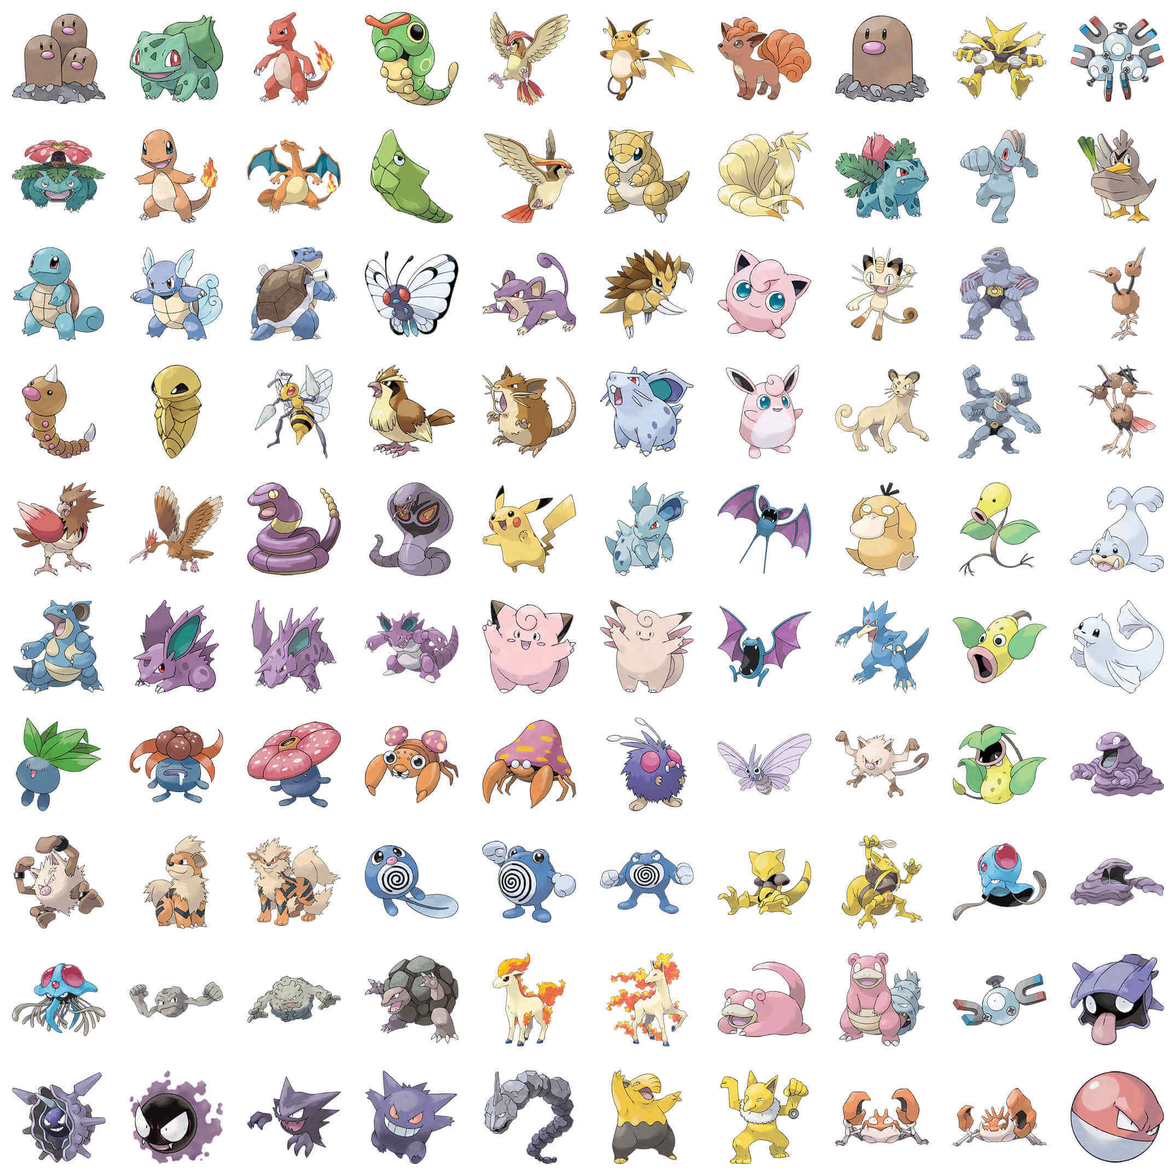
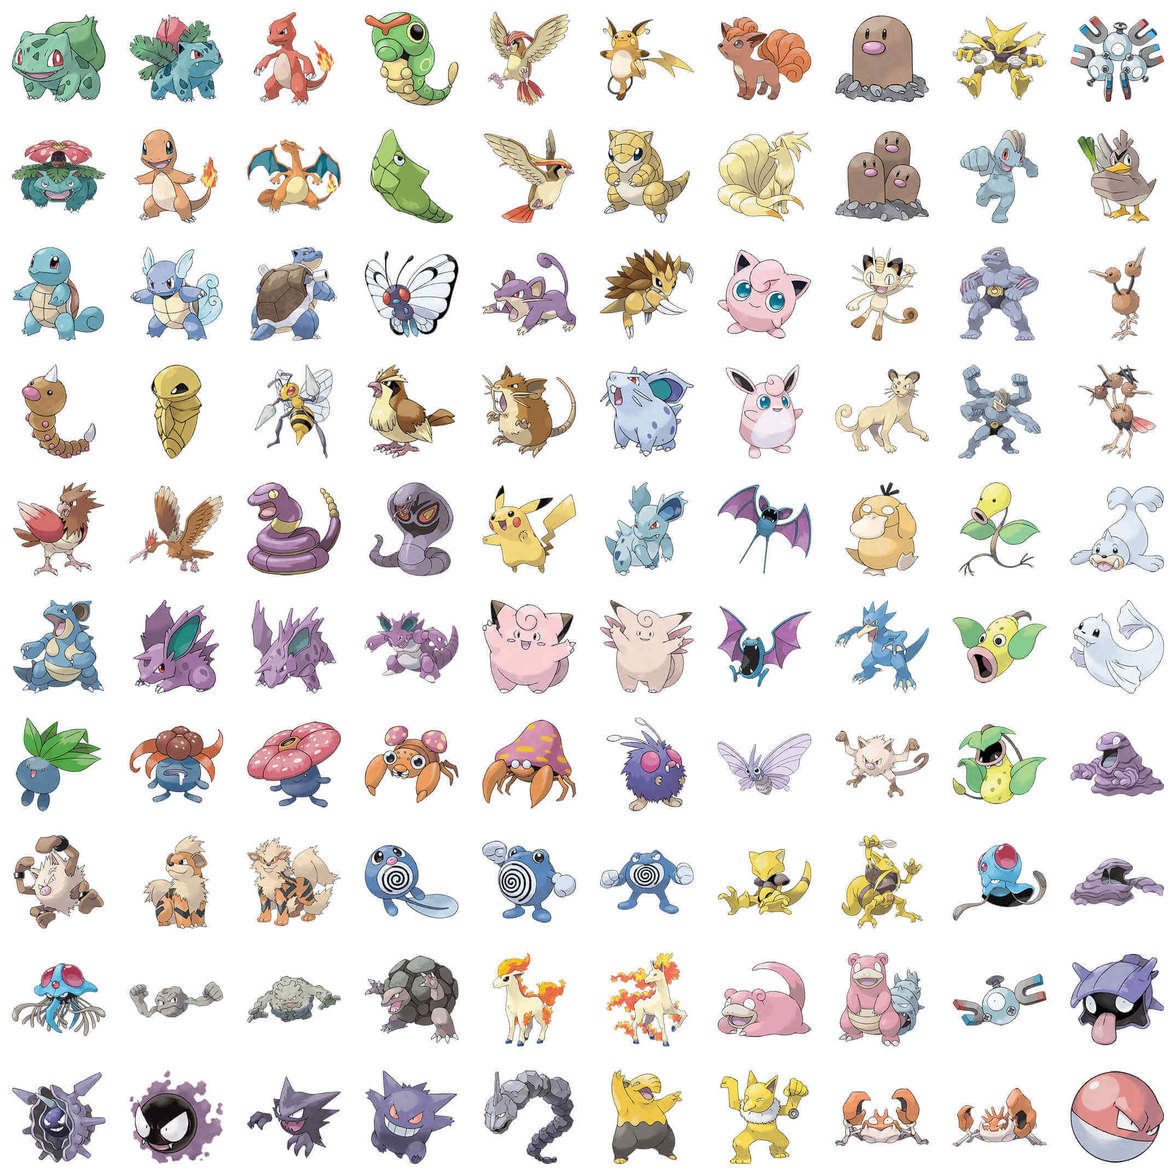
Add new Pokemon images

Changed region(s): [[0.0, 0.0, 0.187, 0.0935], [0.7167, 0.0935, 0.8102, 0.187]]

diff --git a/pokemon.min.css b/pokemon.min.css
@@ -1,1 +1,1 @@
-.i100,[class*=i0]{background-image:url(data/pokemon-0.jpg);background-size:1000px 1000px}.i001,.i101,.i201,.i301,.i401,.i501,.i601,.i701,.i802{background-position:-100px 0}.i002,.i102,.i202,.i302,.i402,.i502,.i602,.i702{background-position:-700px -100px}.i003,.i103,.i203,.i303,.i403,.i503,.i603,.i703,.i803{background-position:0 -100px}.i004,.i104,.i204,.i304,.i404,.i504,.i604,.i704,.i804{background-position:-100px -100px}.i005,.i105,.i205,.i305,.i405,.i505,.i605,.i705,.i805{background-position:-200px 0}.i006,.i106,.i206,.i306,.i406,.i506,.i606,.i706,.i806{background-position:-200px -100px}.i007,.i107,.i207,.i307,.i407,.i507,.i607,.i707{background-position:0 -200px}.i008,.i108,.i208,.i308,.i408,.i508,.i608,.i708{background-position:-100px -200px}.i009,.i109,.i209,.i309,.i409,.i509,.i609,.i709{background-position:-200px -200px}.i010,.i110,.i210,.i310,.i410,.i510,.i610,.i710{background-position:-300px 0}.i011,.i111,.i211,.i311,.i411,.i511,.i611,.i711{background-position:-300px -100px}.i012,.i112,.i212,.i312,.i412,.i512,.i612,.i712{background-position:-300px -200px}.i013,.i113,.i213,.i313,.i413,.i513,.i613,.i713{background-position:0 -300px}.i014,.i114,.i214,.i314,.i414,.i514,.i614,.i714{background-position:-100px -300px}.i015,.i115,.i215,.i315,.i415,.i515,.i615,.i715{background-position:-200px -300px}.i016,.i116,.i216,.i316,.i416,.i516,.i616,.i716{background-position:-300px -300px}.i017,.i117,.i217,.i317,.i417,.i517,.i617,.i717{background-position:-400px 0}.i018,.i118,.i218,.i318,.i418,.i518,.i618,.i718{background-position:-400px -100px}.i019,.i119,.i219,.i319,.i419,.i519,.i619,.i719{background-position:-400px -200px}.i020,.i120,.i220,.i320,.i420,.i520,.i620,.i720{background-position:-400px -300px}.i021,.i121,.i221,.i321,.i421,.i521,.i621,.i721{background-position:0 -400px}.i022,.i122,.i222,.i322,.i422,.i522,.i622,.i722{background-position:-100px -400px}.i023,.i123,.i223,.i323,.i423,.i523,.i623,.i723{background-position:-200px -400px}.i024,.i124,.i224,.i324,.i424,.i524,.i624,.i724{background-position:-300px -400px}.i025,.i125,.i225,.i325,.i425,.i525,.i625,.i725{background-position:-400px -400px}.i026,.i126,.i226,.i326,.i426,.i526,.i626,.i726{background-position:-500px 0}.i027,.i127,.i227,.i327,.i427,.i527,.i627,.i727{background-position:-500px -100px}.i028,.i128,.i228,.i328,.i428,.i528,.i628,.i728{background-position:-500px -200px}.i029,.i129,.i229,.i329,.i429,.i529,.i629,.i729{background-position:-500px -300px}.i030,.i130,.i230,.i330,.i430,.i530,.i630,.i730{background-position:-500px -400px}.i031,.i131,.i231,.i331,.i431,.i531,.i631,.i731{background-position:0 -500px}.i032,.i132,.i232,.i332,.i432,.i532,.i632,.i732{background-position:-100px -500px}.i033,.i133,.i233,.i333,.i433,.i533,.i633,.i733{background-position:-200px -500px}.i034,.i134,.i234,.i334,.i434,.i534,.i634,.i734{background-position:-300px -500px}.i035,.i135,.i235,.i335,.i435,.i535,.i635,.i735{background-position:-400px -500px}.i036,.i136,.i236,.i336,.i436,.i536,.i636,.i736{background-position:-500px -500px}.i037,.i137,.i237,.i337,.i437,.i537,.i637,.i737{background-position:-600px 0}.i038,.i138,.i238,.i338,.i438,.i538,.i638,.i738{background-position:-600px -100px}.i039,.i139,.i239,.i339,.i439,.i539,.i639,.i739{background-position:-600px -200px}.i040,.i140,.i240,.i340,.i440,.i540,.i640,.i740{background-position:-600px -300px}.i041,.i141,.i241,.i341,.i441,.i541,.i641,.i741{background-position:-600px -400px}.i042,.i142,.i242,.i342,.i442,.i542,.i642,.i742{background-position:-600px -500px}.i043,.i143,.i243,.i343,.i443,.i543,.i643,.i743{background-position:0 -600px}.i044,.i144,.i244,.i344,.i444,.i544,.i644,.i744{background-position:-100px -600px}.i045,.i145,.i245,.i345,.i445,.i545,.i645,.i745{background-position:-200px -600px}.i046,.i146,.i246,.i346,.i446,.i546,.i646,.i746{background-position:-300px -600px}.i047,.i147,.i247,.i347,.i447,.i547,.i647,.i747{background-position:-400px -600px}.i048,.i148,.i248,.i348,.i448,.i548,.i648,.i748{background-position:-500px -600px}.i049,.i149,.i249,.i349,.i449,.i549,.i649,.i749{background-position:-600px -600px}.i050,.i150,.i250,.i350,.i450,.i550,.i650,.i750{background-position:-700px 0}.i051,.i151,.i251,.i351,.i451,.i551,.i651,.i751,.i801{background-position:0 0}.i052,.i152,.i252,.i352,.i452,.i552,.i652,.i752{background-position:-700px -200px}.i053,.i153,.i253,.i353,.i453,.i553,.i653,.i753{background-position:-700px -300px}.i054,.i154,.i254,.i354,.i454,.i554,.i654,.i754{background-position:-700px -400px}.i055,.i155,.i255,.i355,.i455,.i555,.i655,.i755{background-position:-700px -500px}.i056,.i156,.i256,.i356,.i456,.i556,.i656,.i756{background-position:-700px -600px}.i057,.i157,.i257,.i357,.i457,.i557,.i657,.i757{background-position:0 -700px}.i058,.i158,.i258,.i358,.i458,.i558,.i658,.i758{background-position:-100px -700px}.i059,.i159,.i259,.i359,.i459,.i559,.i659,.i759{background-position:-200px -700px}.i060,.i160,.i260,.i360,.i460,.i560,.i660,.i760{background-position:-300px -700px}.i061,.i161,.i261,.i361,.i461,.i561,.i661,.i761{background-position:-400px -700px}.i062,.i162,.i262,.i362,.i462,.i562,.i662,.i762{background-position:-500px -700px}.i063,.i163,.i263,.i363,.i463,.i563,.i663,.i763{background-position:-600px -700px}.i064,.i164,.i264,.i364,.i464,.i564,.i664,.i764{background-position:-700px -700px}.i065,.i165,.i265,.i365,.i465,.i565,.i665,.i765{background-position:-800px 0}.i066,.i166,.i266,.i366,.i466,.i566,.i666,.i766{background-position:-800px -100px}.i067,.i167,.i267,.i367,.i467,.i567,.i667,.i767{background-position:-800px -200px}.i068,.i168,.i268,.i368,.i468,.i568,.i668,.i768{background-position:-800px -300px}.i069,.i169,.i269,.i369,.i469,.i569,.i669,.i769{background-position:-800px -400px}.i070,.i170,.i270,.i370,.i470,.i570,.i670,.i770{background-position:-800px -500px}.i071,.i171,.i271,.i371,.i471,.i571,.i671,.i771{background-position:-800px -600px}.i072,.i172,.i272,.i372,.i472,.i572,.i672,.i772{background-position:-800px -700px}.i073,.i173,.i273,.i373,.i473,.i573,.i673,.i773{background-position:0 -800px}.i074,.i174,.i274,.i374,.i474,.i574,.i674,.i774{background-position:-100px -800px}.i075,.i175,.i275,.i375,.i475,.i575,.i675,.i775{background-position:-200px -800px}.i076,.i176,.i276,.i376,.i476,.i576,.i676,.i776{background-position:-300px -800px}.i077,.i177,.i277,.i377,.i477,.i577,.i677,.i777{background-position:-400px -800px}.i078,.i178,.i278,.i378,.i478,.i578,.i678,.i778{background-position:-500px -800px}.i079,.i179,.i279,.i379,.i479,.i579,.i679,.i779{background-position:-600px -800px}.i080,.i180,.i280,.i380,.i480,.i580,.i680,.i780{background-position:-700px -800px}.i081,.i181,.i281,.i381,.i481,.i581,.i681,.i781{background-position:-800px -800px}.i082,.i182,.i282,.i382,.i482,.i582,.i682,.i782{background-position:-900px 0}.i083,.i183,.i283,.i383,.i483,.i583,.i683,.i783{background-position:-900px -100px}.i084,.i184,.i284,.i384,.i484,.i584,.i684,.i784{background-position:-900px -200px}.i085,.i185,.i285,.i385,.i485,.i585,.i685,.i785{background-position:-900px -300px}.i086,.i186,.i286,.i386,.i486,.i586,.i686,.i786{background-position:-900px -400px}.i087,.i187,.i287,.i387,.i487,.i587,.i687,.i787{background-position:-900px -500px}.i088,.i188,.i288,.i388,.i488,.i588,.i688,.i788{background-position:-900px -600px}.i089,.i189,.i289,.i389,.i489,.i589,.i689,.i789{background-position:-900px -700px}.i090,.i190,.i290,.i390,.i490,.i590,.i690,.i790{background-position:-900px -800px}.i091,.i191,.i291,.i391,.i491,.i591,.i691,.i791{background-position:0 -900px}.i092,.i192,.i292,.i392,.i492,.i592,.i692,.i792{background-position:-100px -900px}.i093,.i193,.i293,.i393,.i493,.i593,.i693,.i793{background-position:-200px -900px}.i094,.i194,.i294,.i394,.i494,.i594,.i694,.i794{background-position:-300px -900px}.i095,.i195,.i295,.i395,.i495,.i595,.i695,.i795{background-position:-400px -900px}.i096,.i196,.i296,.i396,.i496,.i596,.i696,.i796{background-position:-500px -900px}.i097,.i197,.i297,.i397,.i497,.i597,.i697,.i797{background-position:-600px -900px}.i098,.i198,.i298,.i398,.i498,.i598,.i698,.i798{background-position:-700px -900px}.i099,.i199,.i299,.i399,.i499,.i599,.i699,.i799{background-position:-800px -900px}.i100,.i200,.i300,.i400,.i500,.i600,.i700,.i800{background-position:-900px -900px}.i200,[class*=i1]:not(.i100){background-image:url(data/pokemon-1.jpg);background-size:1000px 1000px}.i300,[class*=i2]:not(.i200){background-image:url(data/pokemon-2.jpg);background-size:1000px 1000px}.i400,[class*=i3]:not(.i300){background-image:url(data/pokemon-3.jpg);background-size:1000px 1000px}.i500,[class*=i4]:not(.i400){background-image:url(data/pokemon-4.jpg);background-size:1000px 1000px}.i600,[class*=i5]:not(.i500){background-image:url(data/pokemon-5.jpg);background-size:1000px 1000px}.i700,[class*=i6]:not(.i600){background-image:url(data/pokemon-6.jpg);background-size:1000px 1000px}.i800,[class*=i7]:not(.i700){background-image:url(data/pokemon-7.jpg);background-size:1000px 1000px}.i900,[class*=i8]:not(.i800){background-image:url(data/pokemon-8.jpg);background-size:300px 200px}
+.i100,[class*=i0]{background-image:url(data/pokemon-0.jpg);background-size:1000px 1000px}.i001,.i101,.i201,.i301,.i401,.i501,.i601,.i701,.i801{background-position:0 0}.i002,.i102,.i202,.i302,.i402,.i502,.i602,.i702,.i802{background-position:-100px 0}.i003,.i103,.i203,.i303,.i403,.i503,.i603,.i703,.i803{background-position:0 -100px}.i004,.i104,.i204,.i304,.i404,.i504,.i604,.i704,.i804{background-position:-100px -100px}.i005,.i105,.i205,.i305,.i405,.i505,.i605,.i705,.i805{background-position:-200px 0}.i006,.i106,.i206,.i306,.i406,.i506,.i606,.i706,.i806{background-position:-200px -100px}.i007,.i107,.i207,.i307,.i407,.i507,.i607,.i707,.i807{background-position:0 -200px}.i008,.i108,.i208,.i308,.i408,.i508,.i608,.i708,.i808{background-position:-100px -200px}.i009,.i109,.i209,.i309,.i409,.i509,.i609,.i709,.i809{background-position:-200px -200px}.i010,.i110,.i210,.i310,.i410,.i510,.i610,.i710{background-position:-300px 0}.i011,.i111,.i211,.i311,.i411,.i511,.i611,.i711{background-position:-300px -100px}.i012,.i112,.i212,.i312,.i412,.i512,.i612,.i712{background-position:-300px -200px}.i013,.i113,.i213,.i313,.i413,.i513,.i613,.i713{background-position:0 -300px}.i014,.i114,.i214,.i314,.i414,.i514,.i614,.i714{background-position:-100px -300px}.i015,.i115,.i215,.i315,.i415,.i515,.i615,.i715{background-position:-200px -300px}.i016,.i116,.i216,.i316,.i416,.i516,.i616,.i716{background-position:-300px -300px}.i017,.i117,.i217,.i317,.i417,.i517,.i617,.i717{background-position:-400px 0}.i018,.i118,.i218,.i318,.i418,.i518,.i618,.i718{background-position:-400px -100px}.i019,.i119,.i219,.i319,.i419,.i519,.i619,.i719{background-position:-400px -200px}.i020,.i120,.i220,.i320,.i420,.i520,.i620,.i720{background-position:-400px -300px}.i021,.i121,.i221,.i321,.i421,.i521,.i621,.i721{background-position:0 -400px}.i022,.i122,.i222,.i322,.i422,.i522,.i622,.i722{background-position:-100px -400px}.i023,.i123,.i223,.i323,.i423,.i523,.i623,.i723{background-position:-200px -400px}.i024,.i124,.i224,.i324,.i424,.i524,.i624,.i724{background-position:-300px -400px}.i025,.i125,.i225,.i325,.i425,.i525,.i625,.i725{background-position:-400px -400px}.i026,.i126,.i226,.i326,.i426,.i526,.i626,.i726{background-position:-500px 0}.i027,.i127,.i227,.i327,.i427,.i527,.i627,.i727{background-position:-500px -100px}.i028,.i128,.i228,.i328,.i428,.i528,.i628,.i728{background-position:-500px -200px}.i029,.i129,.i229,.i329,.i429,.i529,.i629,.i729{background-position:-500px -300px}.i030,.i130,.i230,.i330,.i430,.i530,.i630,.i730{background-position:-500px -400px}.i031,.i131,.i231,.i331,.i431,.i531,.i631,.i731{background-position:0 -500px}.i032,.i132,.i232,.i332,.i432,.i532,.i632,.i732{background-position:-100px -500px}.i033,.i133,.i233,.i333,.i433,.i533,.i633,.i733{background-position:-200px -500px}.i034,.i134,.i234,.i334,.i434,.i534,.i634,.i734{background-position:-300px -500px}.i035,.i135,.i235,.i335,.i435,.i535,.i635,.i735{background-position:-400px -500px}.i036,.i136,.i236,.i336,.i436,.i536,.i636,.i736{background-position:-500px -500px}.i037,.i137,.i237,.i337,.i437,.i537,.i637,.i737{background-position:-600px 0}.i038,.i138,.i238,.i338,.i438,.i538,.i638,.i738{background-position:-600px -100px}.i039,.i139,.i239,.i339,.i439,.i539,.i639,.i739{background-position:-600px -200px}.i040,.i140,.i240,.i340,.i440,.i540,.i640,.i740{background-position:-600px -300px}.i041,.i141,.i241,.i341,.i441,.i541,.i641,.i741{background-position:-600px -400px}.i042,.i142,.i242,.i342,.i442,.i542,.i642,.i742{background-position:-600px -500px}.i043,.i143,.i243,.i343,.i443,.i543,.i643,.i743{background-position:0 -600px}.i044,.i144,.i244,.i344,.i444,.i544,.i644,.i744{background-position:-100px -600px}.i045,.i145,.i245,.i345,.i445,.i545,.i645,.i745{background-position:-200px -600px}.i046,.i146,.i246,.i346,.i446,.i546,.i646,.i746{background-position:-300px -600px}.i047,.i147,.i247,.i347,.i447,.i547,.i647,.i747{background-position:-400px -600px}.i048,.i148,.i248,.i348,.i448,.i548,.i648,.i748{background-position:-500px -600px}.i049,.i149,.i249,.i349,.i449,.i549,.i649,.i749{background-position:-600px -600px}.i050,.i150,.i250,.i350,.i450,.i550,.i650,.i750{background-position:-700px 0}.i051,.i151,.i251,.i351,.i451,.i551,.i651,.i751{background-position:-700px -100px}.i052,.i152,.i252,.i352,.i452,.i552,.i652,.i752{background-position:-700px -200px}.i053,.i153,.i253,.i353,.i453,.i553,.i653,.i753{background-position:-700px -300px}.i054,.i154,.i254,.i354,.i454,.i554,.i654,.i754{background-position:-700px -400px}.i055,.i155,.i255,.i355,.i455,.i555,.i655,.i755{background-position:-700px -500px}.i056,.i156,.i256,.i356,.i456,.i556,.i656,.i756{background-position:-700px -600px}.i057,.i157,.i257,.i357,.i457,.i557,.i657,.i757{background-position:0 -700px}.i058,.i158,.i258,.i358,.i458,.i558,.i658,.i758{background-position:-100px -700px}.i059,.i159,.i259,.i359,.i459,.i559,.i659,.i759{background-position:-200px -700px}.i060,.i160,.i260,.i360,.i460,.i560,.i660,.i760{background-position:-300px -700px}.i061,.i161,.i261,.i361,.i461,.i561,.i661,.i761{background-position:-400px -700px}.i062,.i162,.i262,.i362,.i462,.i562,.i662,.i762{background-position:-500px -700px}.i063,.i163,.i263,.i363,.i463,.i563,.i663,.i763{background-position:-600px -700px}.i064,.i164,.i264,.i364,.i464,.i564,.i664,.i764{background-position:-700px -700px}.i065,.i165,.i265,.i365,.i465,.i565,.i665,.i765{background-position:-800px 0}.i066,.i166,.i266,.i366,.i466,.i566,.i666,.i766{background-position:-800px -100px}.i067,.i167,.i267,.i367,.i467,.i567,.i667,.i767{background-position:-800px -200px}.i068,.i168,.i268,.i368,.i468,.i568,.i668,.i768{background-position:-800px -300px}.i069,.i169,.i269,.i369,.i469,.i569,.i669,.i769{background-position:-800px -400px}.i070,.i170,.i270,.i370,.i470,.i570,.i670,.i770{background-position:-800px -500px}.i071,.i171,.i271,.i371,.i471,.i571,.i671,.i771{background-position:-800px -600px}.i072,.i172,.i272,.i372,.i472,.i572,.i672,.i772{background-position:-800px -700px}.i073,.i173,.i273,.i373,.i473,.i573,.i673,.i773{background-position:0 -800px}.i074,.i174,.i274,.i374,.i474,.i574,.i674,.i774{background-position:-100px -800px}.i075,.i175,.i275,.i375,.i475,.i575,.i675,.i775{background-position:-200px -800px}.i076,.i176,.i276,.i376,.i476,.i576,.i676,.i776{background-position:-300px -800px}.i077,.i177,.i277,.i377,.i477,.i577,.i677,.i777{background-position:-400px -800px}.i078,.i178,.i278,.i378,.i478,.i578,.i678,.i778{background-position:-500px -800px}.i079,.i179,.i279,.i379,.i479,.i579,.i679,.i779{background-position:-600px -800px}.i080,.i180,.i280,.i380,.i480,.i580,.i680,.i780{background-position:-700px -800px}.i081,.i181,.i281,.i381,.i481,.i581,.i681,.i781{background-position:-800px -800px}.i082,.i182,.i282,.i382,.i482,.i582,.i682,.i782{background-position:-900px 0}.i083,.i183,.i283,.i383,.i483,.i583,.i683,.i783{background-position:-900px -100px}.i084,.i184,.i284,.i384,.i484,.i584,.i684,.i784{background-position:-900px -200px}.i085,.i185,.i285,.i385,.i485,.i585,.i685,.i785{background-position:-900px -300px}.i086,.i186,.i286,.i386,.i486,.i586,.i686,.i786{background-position:-900px -400px}.i087,.i187,.i287,.i387,.i487,.i587,.i687,.i787{background-position:-900px -500px}.i088,.i188,.i288,.i388,.i488,.i588,.i688,.i788{background-position:-900px -600px}.i089,.i189,.i289,.i389,.i489,.i589,.i689,.i789{background-position:-900px -700px}.i090,.i190,.i290,.i390,.i490,.i590,.i690,.i790{background-position:-900px -800px}.i091,.i191,.i291,.i391,.i491,.i591,.i691,.i791{background-position:0 -900px}.i092,.i192,.i292,.i392,.i492,.i592,.i692,.i792{background-position:-100px -900px}.i093,.i193,.i293,.i393,.i493,.i593,.i693,.i793{background-position:-200px -900px}.i094,.i194,.i294,.i394,.i494,.i594,.i694,.i794{background-position:-300px -900px}.i095,.i195,.i295,.i395,.i495,.i595,.i695,.i795{background-position:-400px -900px}.i096,.i196,.i296,.i396,.i496,.i596,.i696,.i796{background-position:-500px -900px}.i097,.i197,.i297,.i397,.i497,.i597,.i697,.i797{background-position:-600px -900px}.i098,.i198,.i298,.i398,.i498,.i598,.i698,.i798{background-position:-700px -900px}.i099,.i199,.i299,.i399,.i499,.i599,.i699,.i799{background-position:-800px -900px}.i100,.i200,.i300,.i400,.i500,.i600,.i700,.i800{background-position:-900px -900px}.i200,[class*=i1]:not(.i100){background-image:url(data/pokemon-1.jpg);background-size:1000px 1000px}.i300,[class*=i2]:not(.i200){background-image:url(data/pokemon-2.jpg);background-size:1000px 1000px}.i400,[class*=i3]:not(.i300){background-image:url(data/pokemon-3.jpg);background-size:1000px 1000px}.i500,[class*=i4]:not(.i400){background-image:url(data/pokemon-4.jpg);background-size:1000px 1000px}.i600,[class*=i5]:not(.i500){background-image:url(data/pokemon-5.jpg);background-size:1000px 1000px}.i700,[class*=i6]:not(.i600){background-image:url(data/pokemon-6.jpg);background-size:1000px 1000px}.i800,[class*=i7]:not(.i700){background-image:url(data/pokemon-7.jpg);background-size:1000px 1000px}.i900,[class*=i8]:not(.i800){background-image:url(data/pokemon-8.jpg);background-size:300px 300px}

diff --git a/pokemon.css b/pokemon.css
@@ -1,6 +1,6 @@
 [class*=i0],.i100{background-image: url(data/pokemon-0.jpg);background-size: 1000px 1000px;}
-.i001{background-position: -100px -0px;}
-.i002{background-position: -700px -100px;}
+.i001{background-position: -0px -0px;}
+.i002{background-position: -100px -0px;}
 .i003{background-position: -0px -100px;}
 .i004{background-position: -100px -100px;}
 .i005{background-position: -200px -0px;}
@@ -49,7 +49,7 @@
 .i048{background-position: -500px -600px;}
 .i049{background-position: -600px -600px;}
 .i050{background-position: -700px -0px;}
-.i051{background-position: -0px -0px;}
+.i051{background-position: -700px -100px;}
 .i052{background-position: -700px -200px;}
 .i053{background-position: -700px -300px;}
 .i054{background-position: -700px -400px;}
@@ -100,8 +100,8 @@
 .i099{background-position: -800px -900px;}
 .i100{background-position: -900px -900px;}
 [class*=i1]:not(.i100),.i200{background-image: url(data/pokemon-1.jpg);background-size: 1000px 1000px;}
-.i101{background-position: -100px -0px;}
-.i102{background-position: -700px -100px;}
+.i101{background-position: -0px -0px;}
+.i102{background-position: -100px -0px;}
 .i103{background-position: -0px -100px;}
 .i104{background-position: -100px -100px;}
 .i105{background-position: -200px -0px;}
@@ -150,7 +150,7 @@
 .i148{background-position: -500px -600px;}
 .i149{background-position: -600px -600px;}
 .i150{background-position: -700px -0px;}
-.i151{background-position: -0px -0px;}
+.i151{background-position: -700px -100px;}
 .i152{background-position: -700px -200px;}
 .i153{background-position: -700px -300px;}
 .i154{background-position: -700px -400px;}
@@ -201,8 +201,8 @@
 .i199{background-position: -800px -900px;}
 .i200{background-position: -900px -900px;}
 [class*=i2]:not(.i200),.i300{background-image: url(data/pokemon-2.jpg);background-size: 1000px 1000px;}
-.i201{background-position: -100px -0px;}
-.i202{background-position: -700px -100px;}
+.i201{background-position: -0px -0px;}
+.i202{background-position: -100px -0px;}
 .i203{background-position: -0px -100px;}
 .i204{background-position: -100px -100px;}
 .i205{background-position: -200px -0px;}
@@ -251,7 +251,7 @@
 .i248{background-position: -500px -600px;}
 .i249{background-position: -600px -600px;}
 .i250{background-position: -700px -0px;}
-.i251{background-position: -0px -0px;}
+.i251{background-position: -700px -100px;}
 .i252{background-position: -700px -200px;}
 .i253{background-position: -700px -300px;}
 .i254{background-position: -700px -400px;}
@@ -302,8 +302,8 @@
 .i299{background-position: -800px -900px;}
 .i300{background-position: -900px -900px;}
 [class*=i3]:not(.i300),.i400{background-image: url(data/pokemon-3.jpg);background-size: 1000px 1000px;}
-.i301{background-position: -100px -0px;}
-.i302{background-position: -700px -100px;}
+.i301{background-position: -0px -0px;}
+.i302{background-position: -100px -0px;}
 .i303{background-position: -0px -100px;}
 .i304{background-position: -100px -100px;}
 .i305{background-position: -200px -0px;}
@@ -352,7 +352,7 @@
 .i348{background-position: -500px -600px;}
 .i349{background-position: -600px -600px;}
 .i350{background-position: -700px -0px;}
-.i351{background-position: -0px -0px;}
+.i351{background-position: -700px -100px;}
 .i352{background-position: -700px -200px;}
 .i353{background-position: -700px -300px;}
 .i354{background-position: -700px -400px;}
@@ -403,8 +403,8 @@
 .i399{background-position: -800px -900px;}
 .i400{background-position: -900px -900px;}
 [class*=i4]:not(.i400),.i500{background-image: url(data/pokemon-4.jpg);background-size: 1000px 1000px;}
-.i401{background-position: -100px -0px;}
-.i402{background-position: -700px -100px;}
+.i401{background-position: -0px -0px;}
+.i402{background-position: -100px -0px;}
 .i403{background-position: -0px -100px;}
 .i404{background-position: -100px -100px;}
 .i405{background-position: -200px -0px;}
@@ -453,7 +453,7 @@
 .i448{background-position: -500px -600px;}
 .i449{background-position: -600px -600px;}
 .i450{background-position: -700px -0px;}
-.i451{background-position: -0px -0px;}
+.i451{background-position: -700px -100px;}
 .i452{background-position: -700px -200px;}
 .i453{background-position: -700px -300px;}
 .i454{background-position: -700px -400px;}
@@ -504,8 +504,8 @@
 .i499{background-position: -800px -900px;}
 .i500{background-position: -900px -900px;}
 [class*=i5]:not(.i500),.i600{background-image: url(data/pokemon-5.jpg);background-size: 1000px 1000px;}
-.i501{background-position: -100px -0px;}
-.i502{background-position: -700px -100px;}
+.i501{background-position: -0px -0px;}
+.i502{background-position: -100px -0px;}
 .i503{background-position: -0px -100px;}
 .i504{background-position: -100px -100px;}
 .i505{background-position: -200px -0px;}
@@ -554,7 +554,7 @@
 .i548{background-position: -500px -600px;}
 .i549{background-position: -600px -600px;}
 .i550{background-position: -700px -0px;}
-.i551{background-position: -0px -0px;}
+.i551{background-position: -700px -100px;}
 .i552{background-position: -700px -200px;}
 .i553{background-position: -700px -300px;}
 .i554{background-position: -700px -400px;}
@@ -605,8 +605,8 @@
 .i599{background-position: -800px -900px;}
 .i600{background-position: -900px -900px;}
 [class*=i6]:not(.i600),.i700{background-image: url(data/pokemon-6.jpg);background-size: 1000px 1000px;}
-.i601{background-position: -100px -0px;}
-.i602{background-position: -700px -100px;}
+.i601{background-position: -0px -0px;}
+.i602{background-position: -100px -0px;}
 .i603{background-position: -0px -100px;}
 .i604{background-position: -100px -100px;}
 .i605{background-position: -200px -0px;}
@@ -655,7 +655,7 @@
 .i648{background-position: -500px -600px;}
 .i649{background-position: -600px -600px;}
 .i650{background-position: -700px -0px;}
-.i651{background-position: -0px -0px;}
+.i651{background-position: -700px -100px;}
 .i652{background-position: -700px -200px;}
 .i653{background-position: -700px -300px;}
 .i654{background-position: -700px -400px;}
@@ -706,8 +706,8 @@
 .i699{background-position: -800px -900px;}
 .i700{background-position: -900px -900px;}
 [class*=i7]:not(.i700),.i800{background-image: url(data/pokemon-7.jpg);background-size: 1000px 1000px;}
-.i701{background-position: -100px -0px;}
-.i702{background-position: -700px -100px;}
+.i701{background-position: -0px -0px;}
+.i702{background-position: -100px -0px;}
 .i703{background-position: -0px -100px;}
 .i704{background-position: -100px -100px;}
 .i705{background-position: -200px -0px;}
@@ -756,7 +756,7 @@
 .i748{background-position: -500px -600px;}
 .i749{background-position: -600px -600px;}
 .i750{background-position: -700px -0px;}
-.i751{background-position: -0px -0px;}
+.i751{background-position: -700px -100px;}
 .i752{background-position: -700px -200px;}
 .i753{background-position: -700px -300px;}
 .i754{background-position: -700px -400px;}
@@ -806,10 +806,13 @@
 .i798{background-position: -700px -900px;}
 .i799{background-position: -800px -900px;}
 .i800{background-position: -900px -900px;}
-[class*=i8]:not(.i800),.i900{background-image: url(data/pokemon-8.jpg);background-size: 300px 200px;}
+[class*=i8]:not(.i800),.i900{background-image: url(data/pokemon-8.jpg);background-size: 300px 300px;}
 .i801{background-position: -0px -0px;}
 .i802{background-position: -100px -0px;}
 .i803{background-position: -0px -100px;}
 .i804{background-position: -100px -100px;}
 .i805{background-position: -200px -0px;}
 .i806{background-position: -200px -100px;}
+.i807{background-position: -0px -200px;}
+.i808{background-position: -100px -200px;}
+.i809{background-position: -200px -200px;}
